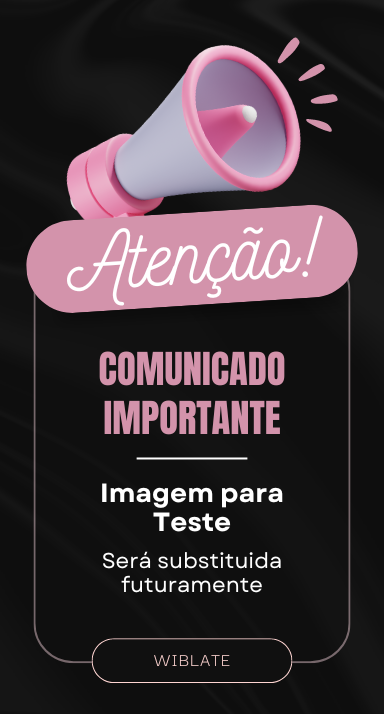
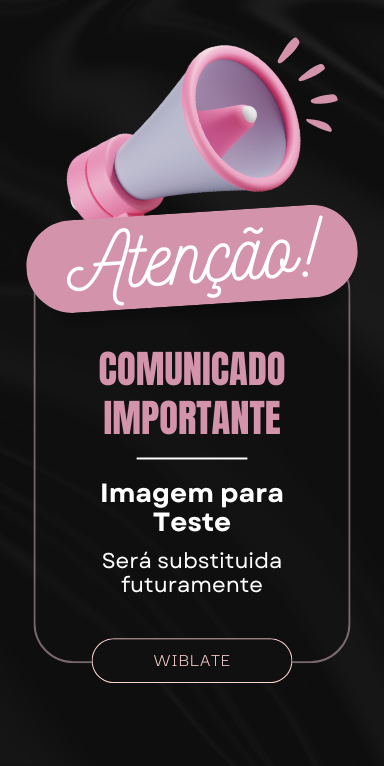
Update register;

diff --git a/tailwind.config.ts b/tailwind.config.ts
@@ -41,7 +41,7 @@ const config: Config = {
         'insert-image': '762px',
         'login-image': '594px',
         'google-button': '50px',
-        'sign-up-image': '714px',
+        'sign-up-image': '766px',
         'gender-pages-image-mobile': '500px',
         'gender-pages-image': '700px'
       },

diff --git a/src/components/account/SignUpForm.tsx b/src/components/account/SignUpForm.tsx
@@ -17,7 +17,7 @@ export default function SignUpForm() {
           className='rounded-r-lg'
           src='/images/login/sign-up-image.png'
           width={384}
-          height={714}
+          height={766}
           alt='Login Image'
           priority
         />
